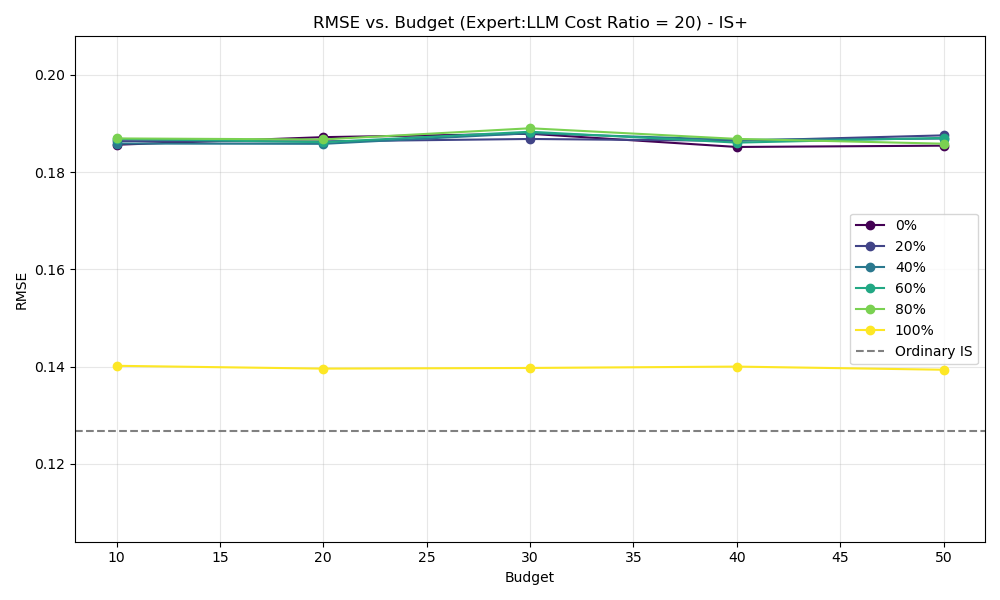
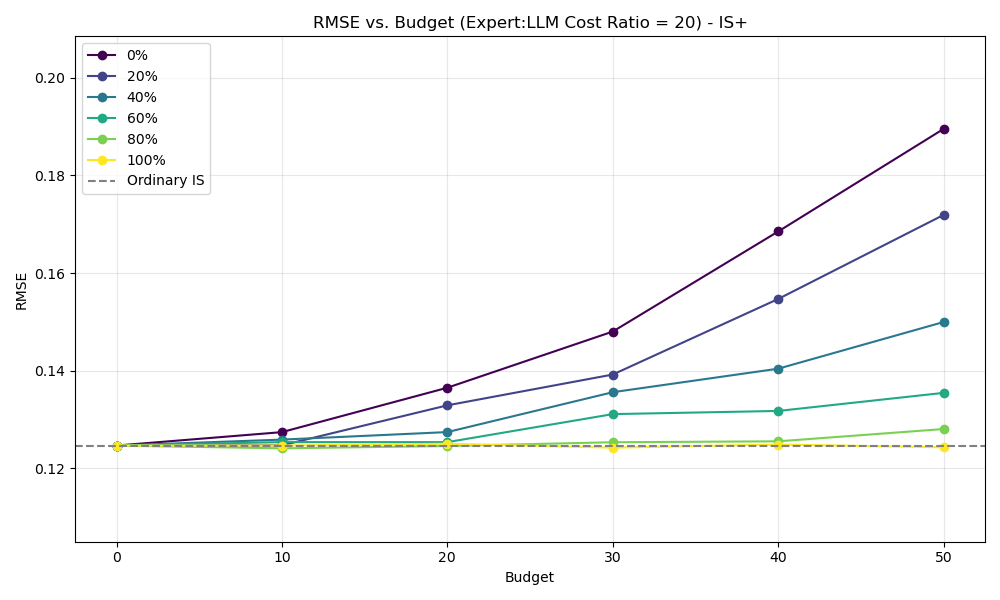
Make the graphing more similar to my graphing
- Reuse all NUM_DATASETS across the entire experiment
- Add 0 as a budget (not really needed but adding it anyways just to be consistent with my graph)

diff --git a/final_report_graphs.py b/final_report_graphs.py
@@ -5,7 +5,7 @@ from tqdm import tqdm
 from two_state import *
 from trajectory_classes import *
 
-NUM_DATASETS = 10000  # Large number for better RMSE estimate
+NUM_DATASETS = 1000  # Large number for better RMSE estimate
 TRAJECTORIES_PER_DATASET = 50
 
 def generate_requested_graphs():
@@ -56,17 +56,22 @@ def generate_requested_graphs():
         evaluation_policy, state_distribution, true_reward_means)
     
     # Common parameters
-    budgets = [10, 20, 30, 40, 50]
+    budgets = [0, 10, 20, 30, 40, 50]
     cost_ratios = [10, 20, 30, 40, 50]
     expert_allocations = [0, 20, 40, 60, 80, 100]  # percentages
+
+    # Pre-generate the factual datasets, and pass them everywhere
+    factual_datasets = []
+    for _ in range(NUM_DATASETS):
+        factual_datasets.append(generate_dataset_of_trajectories(
+            state_distribution, true_reward_means, true_reward_stds,
+            behavior_policy, num_trajectories=TRAJECTORIES_PER_DATASET))
+
     
     # Get baseline IS estimate (we'll only need to do this once)
     print("\nGenerating baseline IS estimates...")
     IS_estimates = []
-    for _ in tqdm(range(NUM_DATASETS)):
-        factual_dataset = generate_dataset_of_trajectories(
-            state_distribution, true_reward_means, true_reward_stds,
-            behavior_policy, num_trajectories=TRAJECTORIES_PER_DATASET)
+    for factual_dataset in tqdm(factual_datasets):
         IS_estimates.append(run_vanilla_IS(
             evaluation_policy, behavior_policy, factual_dataset))
     
@@ -75,25 +80,25 @@ def generate_requested_graphs():
     
     # Figure 1: RMSE vs. total budget (cost ratio = 10)
     print("\nGenerating Figure 1: RMSE vs. budget (cost ratio = 10)")
-    expert_cost_ratio10 = 0.01  # c_x
-    llm_cost_ratio10 = 0.001    # c_y (ratio = 10)
+    expert_cost_ratio10 = 10  # c_x
+    llm_cost_ratio10 = 1    # c_y (ratio = 10)
     rmse_vs_budget_ratio10 = rmse_vs_budget(
         budgets, expert_allocations, expert_cost_ratio10, llm_cost_ratio10,
         state_distribution, true_reward_means, true_reward_stds,
         behavior_policy, evaluation_policy,
         doctor_bias, doctor_std, llm_bias, llm_std,
-        true_evaluation_policy_value)
+        true_evaluation_policy_value, factual_datasets)
     
     # Figure 2: RMSE vs. total budget (cost ratio = 20)
     print("\nGenerating Figure 2: RMSE vs. budget (cost ratio = 20)")
-    expert_cost_ratio20 = 0.01   # c_x
-    llm_cost_ratio20 = 0.0005    # c_y (ratio = 20)
+    expert_cost_ratio20 = 20   # c_x
+    llm_cost_ratio20 = 1    # c_y (ratio = 20)
     rmse_vs_budget_ratio20 = rmse_vs_budget(
         budgets, expert_allocations, expert_cost_ratio20, llm_cost_ratio20,
         state_distribution, true_reward_means, true_reward_stds,
         behavior_policy, evaluation_policy,
         doctor_bias, doctor_std, llm_bias, llm_std,
-        true_evaluation_policy_value)
+        true_evaluation_policy_value, factual_datasets)
     
     # Figure 3: RMSE vs. cost ratio (budget = 20)
     print("\nGenerating Figure 3: RMSE vs. cost ratio (budget = 20)")
@@ -102,7 +107,7 @@ def generate_requested_graphs():
         state_distribution, true_reward_means, true_reward_stds,
         behavior_policy, evaluation_policy,
         doctor_bias, doctor_std, llm_bias, llm_std,
-        true_evaluation_policy_value)
+        true_evaluation_policy_value, factual_datasets)
     
     # Figure 4: RMSE vs. cost ratio (budget = 40)
     print("\nGenerating Figure 4: RMSE vs. cost ratio (budget = 40)")
@@ -111,7 +116,7 @@ def generate_requested_graphs():
         state_distribution, true_reward_means, true_reward_stds,
         behavior_policy, evaluation_policy,
         doctor_bias, doctor_std, llm_bias, llm_std,
-        true_evaluation_policy_value)
+        true_evaluation_policy_value, factual_datasets)
     
     # Plot all figures with consistent y-axis scaling
     plot_results(rmse_vs_budget_ratio10, budgets, expert_allocations, baseline_IS_rmse,
@@ -136,28 +141,22 @@ def rmse_vs_budget(budgets, expert_allocations, expert_cost, llm_cost,
                   state_distribution, true_reward_means, true_reward_stds,
                   behavior_policy, evaluation_policy,
                   doctor_bias, doctor_std, llm_bias, llm_std,
-                  true_evaluation_policy_value):
+                  true_evaluation_policy_value, factual_datasets):
     """
     Generate RMSE data for different budgets with fixed cost ratio.
     """
-    results = {
-        'ISplus': {allocation: [] for allocation in expert_allocations},
-        'DMplus_IS': {allocation: [] for allocation in expert_allocations}
+    value_estimates = {
+        'ISplus': {
+              allocation: {budget: [] for budget in budgets}
+              for allocation in expert_allocations},
+        'DMplus_IS': {
+              allocation: {budget: [] for budget in budgets}
+              for allocation in expert_allocations},
     }
     
     # For each budget value
-    for budget in tqdm(budgets):
-        # We'll generate datasets and process all allocations for each dataset
-        # to reduce computation time
-        ISplus_estimates = {allocation: [] for allocation in expert_allocations}
-        DMplus_IS_estimates = {allocation: [] for allocation in expert_allocations}
-        
-        for _ in range(NUM_DATASETS):
-            # Generate factual dataset (shared across all allocation percentages)
-            factual_dataset = generate_dataset_of_trajectories(
-                state_distribution, true_reward_means, true_reward_stds,
-                behavior_policy, num_trajectories=TRAJECTORIES_PER_DATASET)
-            
+    for factual_dataset in tqdm(factual_datasets):
+        for budget in budgets:
             # Process each allocation percentage
             for expert_percent in expert_allocations:
                 # Calculate budget allocation
@@ -177,50 +176,55 @@ def rmse_vs_budget(budgets, expert_allocations, expert_cost, llm_cost,
                     true_reward_means + llm_bias, llm_std)
                 
                 # Run OPE algorithms
-                ISplus_estimates[expert_percent].append(
+                value_estimates["ISplus"][expert_percent][budget].append(
                     run_ISplus(evaluation_policy, behavior_policy, factual_dataset,
                            [doctor_annotations, llm_annotations]))
-                DMplus_IS_estimates[expert_percent].append(
+                value_estimates["DMplus_IS"][expert_percent][budget].append(
                     run_DMplus_IS(evaluation_policy, behavior_policy, factual_dataset,
                            [doctor_annotations, llm_annotations]))
-        
-        # Calculate RMSE for each allocation percentage
-        for expert_percent in expert_allocations:
-            results['ISplus'][expert_percent].append(calculate_policy_value_rmse(
-                ISplus_estimates[expert_percent], true_evaluation_policy_value))
-            results['DMplus_IS'][expert_percent].append(calculate_policy_value_rmse(
-                DMplus_IS_estimates[expert_percent], true_evaluation_policy_value))
-    
+
+    results = {
+        'ISplus': {allocation: [] for allocation in expert_allocations},
+        'DMplus_IS': {allocation: [] for allocation in expert_allocations},
+    }
+
+    # Calculate RMSE for each allocation percentage
+    for allocation in expert_allocations:
+      for budget in budgets:
+          results['ISplus'][allocation].append(
+              calculate_policy_value_rmse(
+                  value_estimates['ISplus'][allocation][budget],
+                  true_evaluation_policy_value))
+          results['DMplus_IS'][allocation].append(
+              calculate_policy_value_rmse(
+                  value_estimates['DMplus_IS'][allocation][budget],
+                  true_evaluation_policy_value))
+
     return results
 
 def rmse_vs_cost_ratio(cost_ratios, expert_allocations, fixed_budget,
                        state_distribution, true_reward_means, true_reward_stds,
                        behavior_policy, evaluation_policy,
                        doctor_bias, doctor_std, llm_bias, llm_std,
-                       true_evaluation_policy_value):
+                       true_evaluation_policy_value, factual_datasets):
     """
     Generate RMSE data for different cost ratios with fixed budget.
     """
-    results = {
-        'ISplus': {allocation: [] for allocation in expert_allocations},
-        'DMplus_IS': {allocation: [] for allocation in expert_allocations}
+    value_estimates = {
+        'ISplus': {
+              allocation: {cost_ratio: [] for cost_ratio in cost_ratios}
+              for allocation in expert_allocations},
+        'DMplus_IS': {
+              allocation: {cost_ratio: [] for cost_ratio in cost_ratios}
+              for allocation in expert_allocations},
     }
     
-    # For each cost ratio
-    for ratio in tqdm(cost_ratios):
-        # Set costs based on ratio, keeping expert cost fixed at 0.01
-        expert_cost = 0.01
-        llm_cost = expert_cost / ratio
-        
-        
-        ISplus_estimates = {allocation: [] for allocation in expert_allocations}
-        DMplus_IS_estimates = {allocation: [] for allocation in expert_allocations}
-        
-        for _ in range(NUM_DATASETS):
-            # Generate factual dataset (shared across all allocation percentages)
-            factual_dataset = generate_dataset_of_trajectories(
-                state_distribution, true_reward_means, true_reward_stds,
-                behavior_policy, num_trajectories=TRAJECTORIES_PER_DATASET)
+    for factual_dataset in tqdm(factual_datasets):
+        # For each cost ratio
+        for ratio in cost_ratios:
+            # Set costs based on ratio, keeping expert cost fixed at 0.01
+            expert_cost = 0.01
+            llm_cost = expert_cost / ratio
             
             # Process each allocation percentage
             for expert_percent in expert_allocations:
@@ -241,19 +245,29 @@ def rmse_vs_cost_ratio(cost_ratios, expert_allocations, fixed_budget,
                     true_reward_means + llm_bias, llm_std)
                 
                 # Run OPE algorithms
-                ISplus_estimates[expert_percent].append(
+                value_estimates["ISplus"][expert_percent][ratio].append(
                     run_ISplus(evaluation_policy, behavior_policy, factual_dataset,
                            [doctor_annotations, llm_annotations]))
-                DMplus_IS_estimates[expert_percent].append(
+                value_estimates["DMplus_IS"][expert_percent][ratio].append(
                     run_DMplus_IS(evaluation_policy, behavior_policy, factual_dataset,
                            [doctor_annotations, llm_annotations]))
-        
-        # Calculate RMSE for each allocation percentage
-        for expert_percent in expert_allocations:
-            results['ISplus'][expert_percent].append(calculate_policy_value_rmse(
-                ISplus_estimates[expert_percent], true_evaluation_policy_value))
-            results['DMplus_IS'][expert_percent].append(calculate_policy_value_rmse(
-                DMplus_IS_estimates[expert_percent], true_evaluation_policy_value))
+
+    results = {
+        'ISplus': {allocation: [] for allocation in expert_allocations},
+        'DMplus_IS': {allocation: [] for allocation in expert_allocations},
+    }
+
+    # Calculate RMSE for each allocation percentage
+    for allocation in expert_allocations:
+      for ratio in cost_ratios:
+          results['ISplus'][allocation].append(
+              calculate_policy_value_rmse(
+                  value_estimates['ISplus'][allocation][ratio],
+                  true_evaluation_policy_value))
+          results['DMplus_IS'][allocation].append(
+              calculate_policy_value_rmse(
+                  value_estimates['DMplus_IS'][allocation][ratio],
+                  true_evaluation_policy_value))
     
     return results
 

diff --git a/main.py b/main.py
@@ -120,7 +120,7 @@ def main():
 
   # Plotting
   true_evaluation_policy_value = calculate_true_policy_value(
-      evaluation_policy, state_distribution, true_reward_means)
+      evaluation_policy, e_distribution, true_reward_means)
 
   # IS
   IS_rmse = calculate_policy_value_rmse(IS_estimates,
